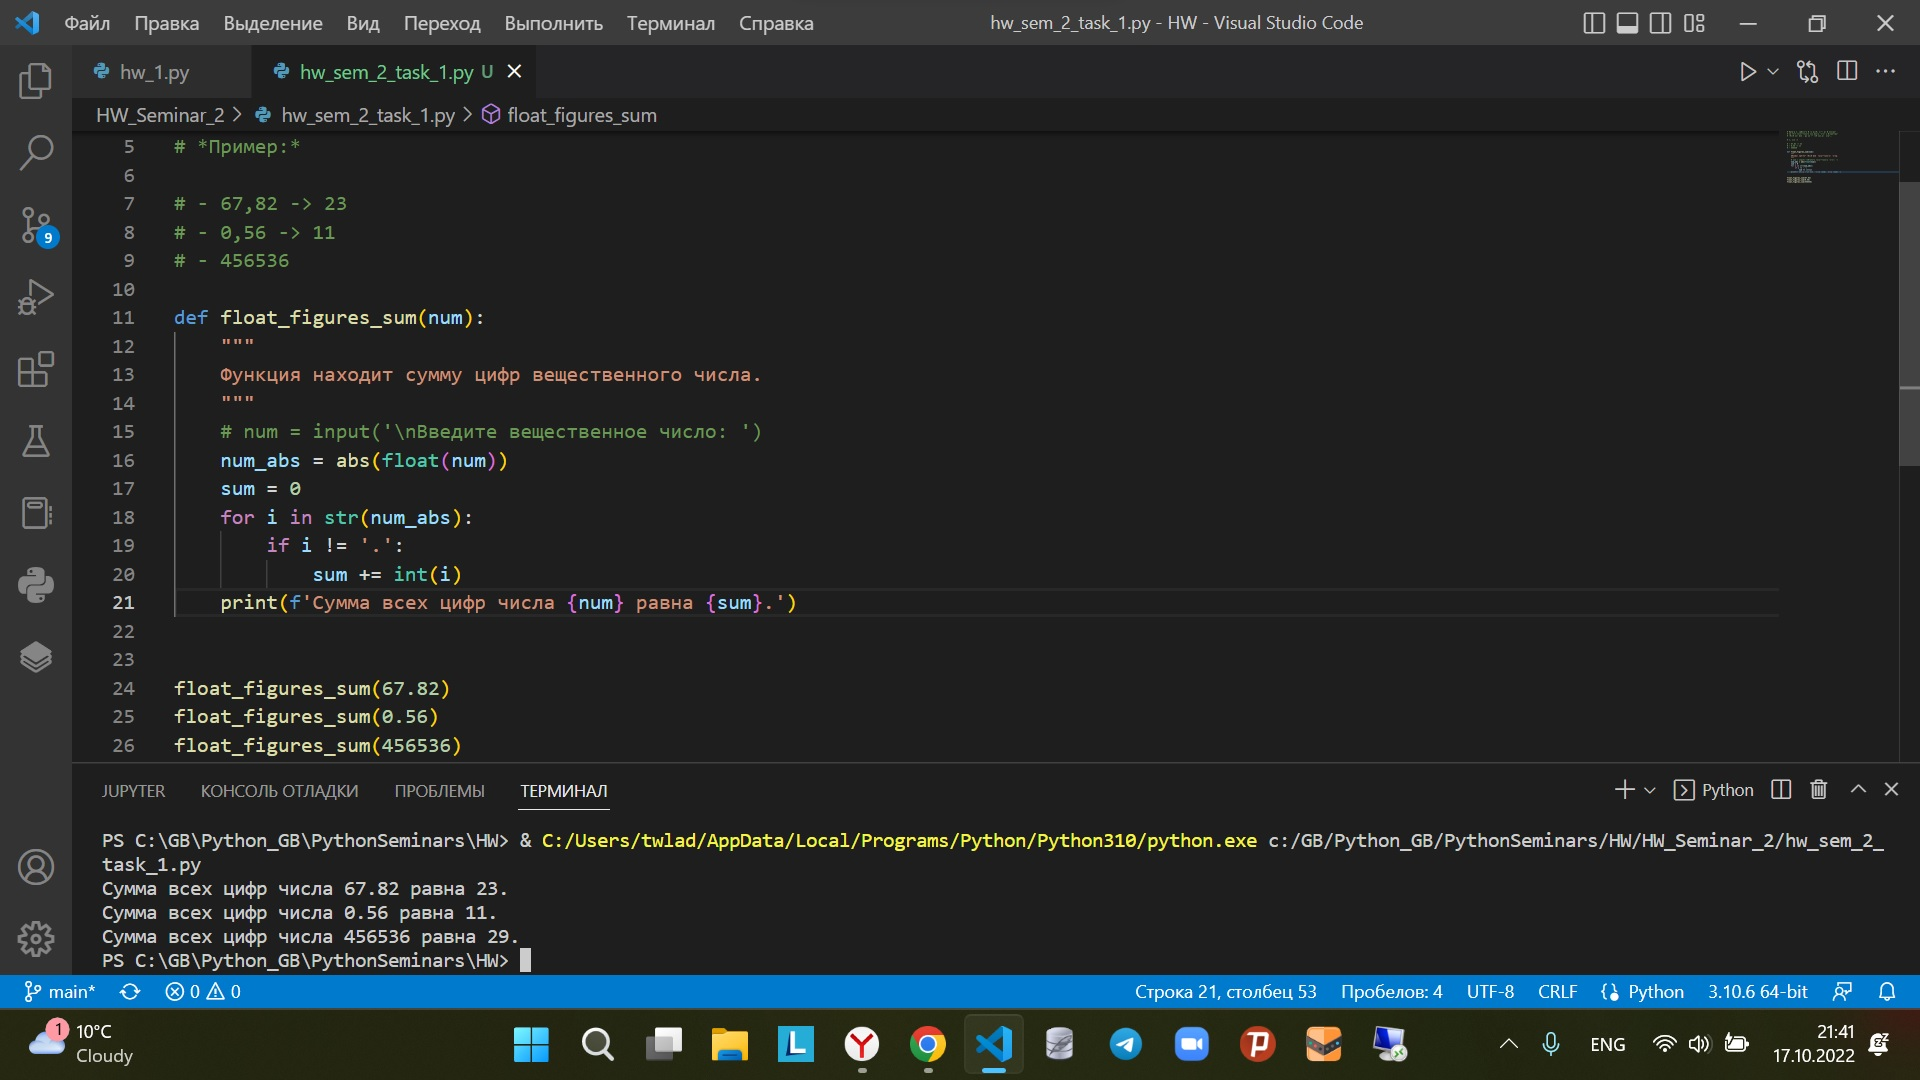
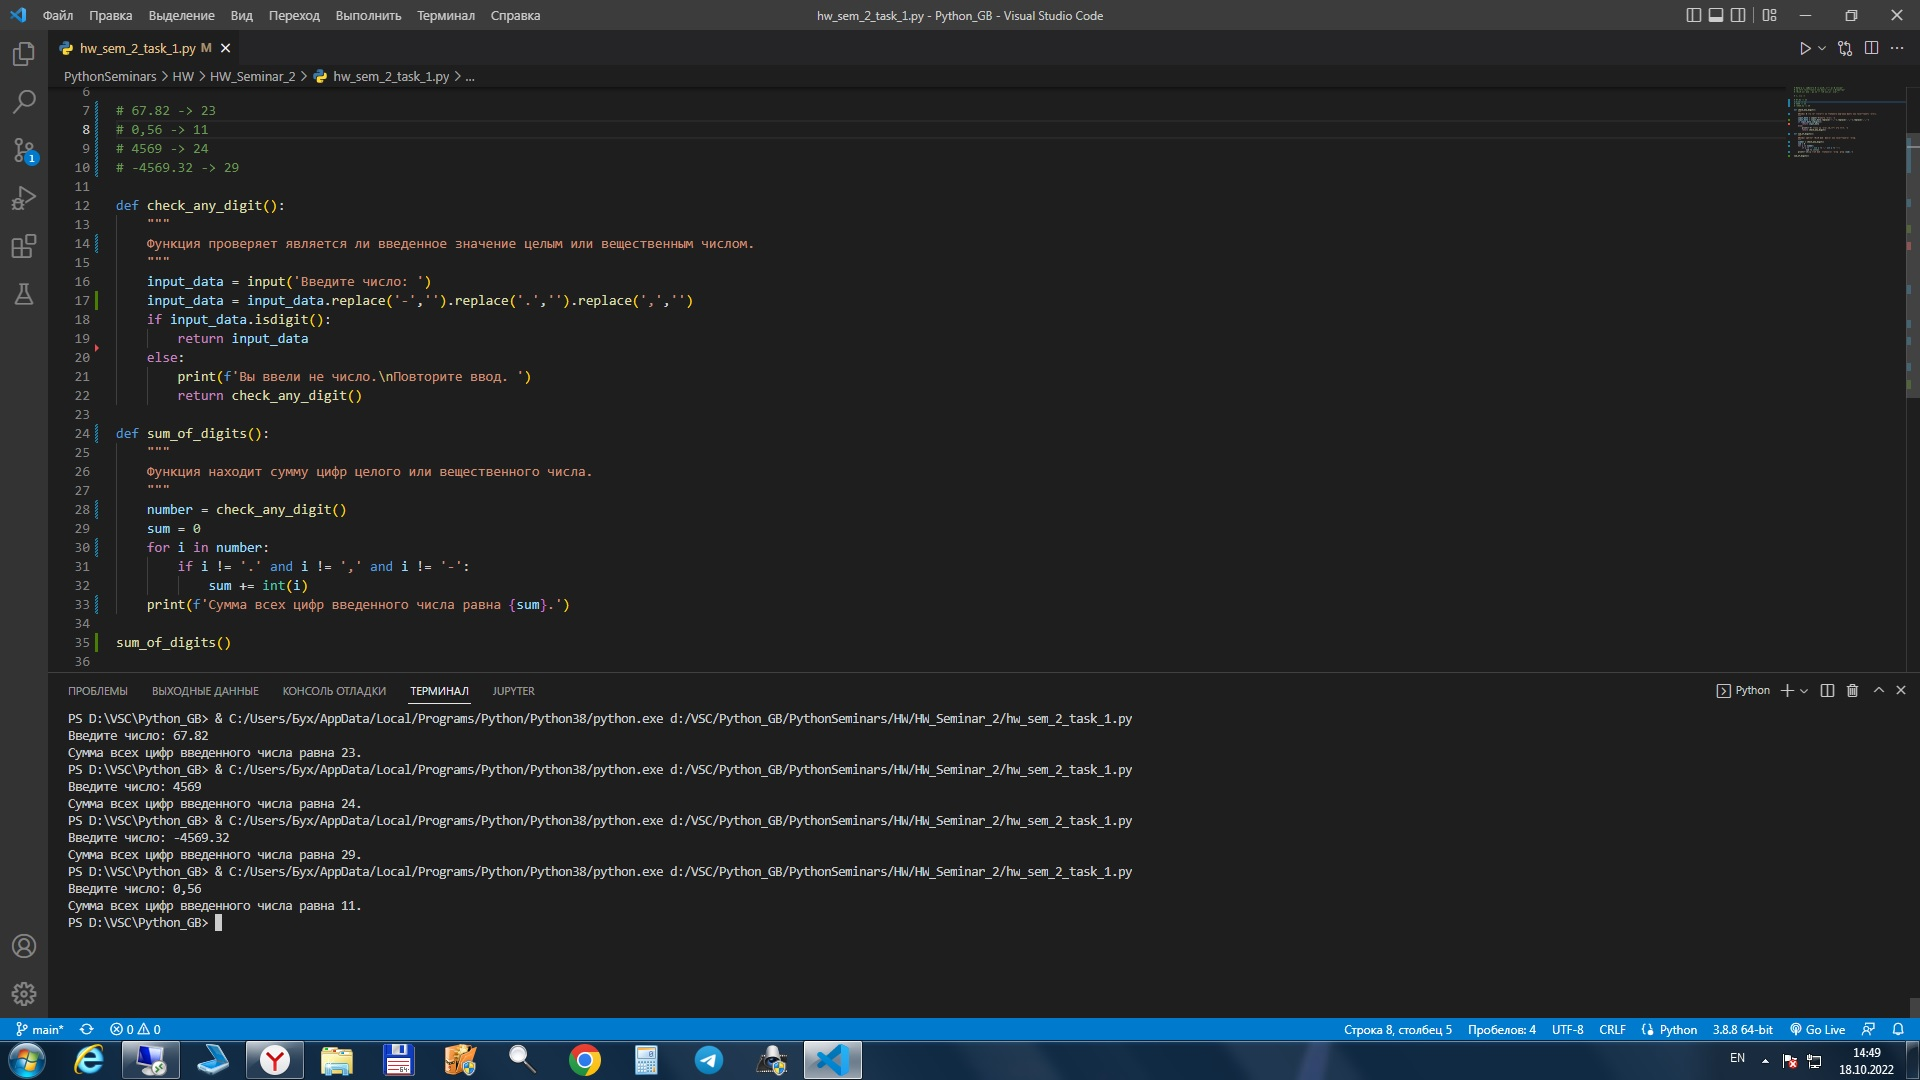
Edited task1 hw

diff --git a/PythonSeminars/HW/HW_Seminar_2/hw_sem_2_task_1.py b/PythonSeminars/HW/HW_Seminar_2/hw_sem_2_task_1.py
@@ -4,41 +4,34 @@
 
 # *Пример:*
 
-# - 67,82 -> 23
-# - 0,56 -> 11
-# - 456536
+# 67.82 -> 23
+# 0,56 -> 11
+# 4569 -> 24
+# -4569.32 -> 29 
 
 def check_any_digit():
     """
-    Функция проверяет является ли введенное 
-    значение целым или вещественным числом.
+    Функция проверяет является ли введенное значение целым или вещественным числом.
     """
     input_data = input('Введите число: ')
+    input_data = input_data.replace('-','').replace('.','').replace(',','')
     if input_data.isdigit():
-        return input_data
-    elif any(input_data.replace(x,'').isdigit() for x in ('.',',','-')):
         return input_data
     else:
         print(f'Вы ввели не число.\nПовторите ввод. ')
         return check_any_digit()
   
-
-def float_figures_sum():
+def sum_of_digits():
     """
     Функция находит сумму цифр целого или вещественного числа.
     """
-    # num = input('\nВведите число: ')
-    num_abs = check_any_digit()
+    number = check_any_digit()
     sum = 0
-    for i in num_abs:
+    for i in number:
         if i != '.' and i != ',' and i != '-':
             sum += int(i)
-    print(f'Сумма всех цифр числа {num_abs} равна {sum}.')
+    print(f'Сумма всех цифр введенного числа равна {sum}.')
 
-# # float_figures_sum(67.82)
-# # float_figures_sum(0.56)
-# # float_figures_sum(456536)
-float_figures_sum()
-
+sum_of_digits()
 
 
